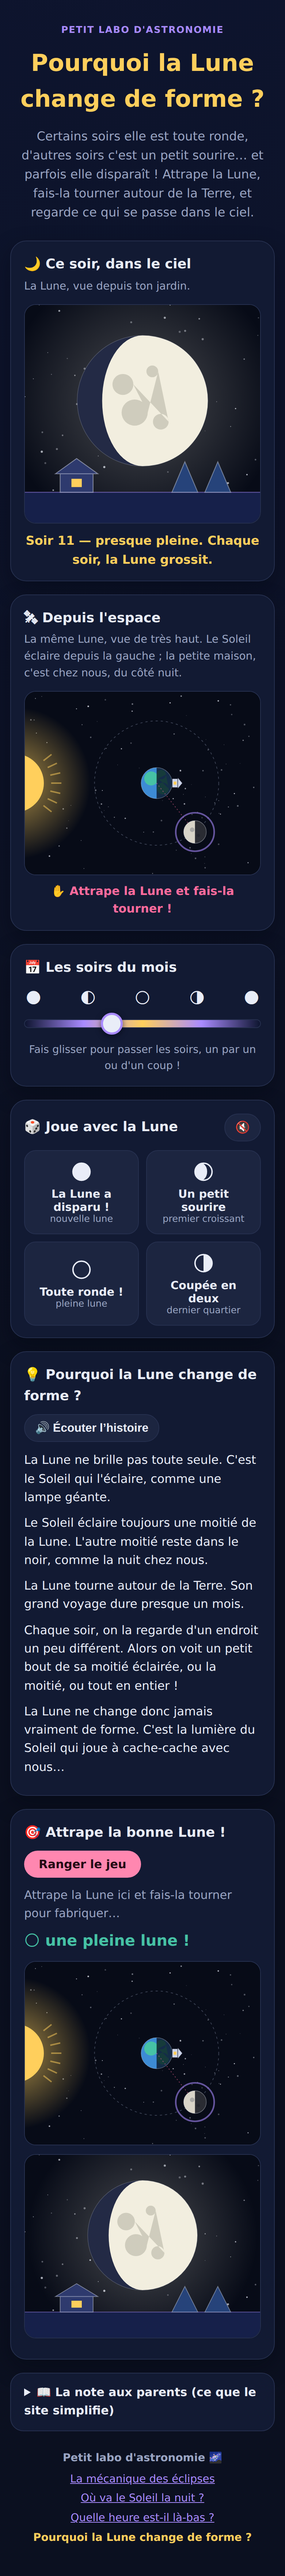
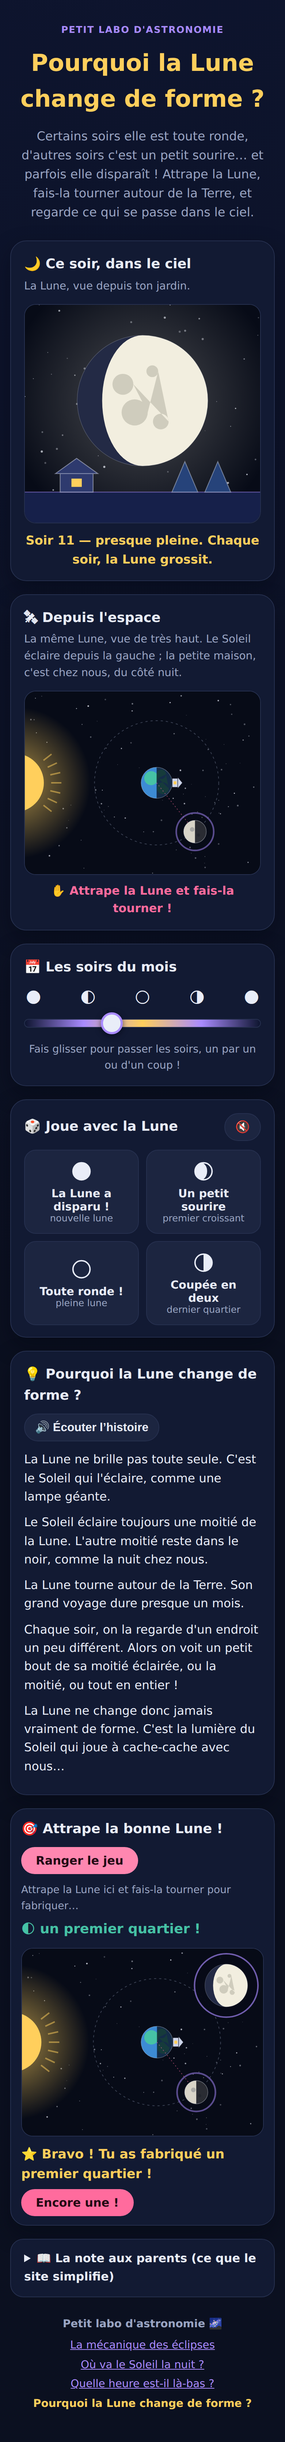
feat: médaillon flottant mobile et jeu à une seule vue
- sur mobile, un médaillon flottant (bas droit) montre la Lune du soir dès
  que le hublot sort de l'écran ; un tap remonte à la vue du jardin
- le jeu mobile tient sur un écran : une seule vue (l'espace) avec la Lune
  du soir incrustée en médaillon, textes compactés
- le médaillon flottant s'efface quand la vue du jeu est à l'écran
- rien ne change sur grand écran (media queries à 880 px)

Claude-Session: https://claude.ai/code/session_01LW4HCeJJHapQbn1kSHxLQ4

Changed region(s): [[0.0615, 0.0, 0.9231, 0.9961], [0.8923, 0.0311, 0.9231, 0.0623], [0.8615, 0.0, 0.8923, 0.0311]]

diff --git a/js/main.js b/js/main.js
@@ -5,11 +5,11 @@
  * que brancher.
  */
 import {
-  CYCLE_JOURS, jourNormalise, phraseDuSoir,
+  CYCLE_JOURS, jourNormalise, phraseDuSoir, formeLune,
   SCENARIOS, DEFIS, defiReussi
 } from './model.js';
 import { creerVueOrbite } from './vue-orbite.js';
-import { creerVueHublot } from './vue-hublot.js';
+import { creerVueHublot, dessinerDisqueLune } from './vue-hublot.js';
 
 /* ------------------------------------------------------------------ */
 /* L'état                                                              */
@@ -31,6 +31,14 @@ if (window.matchMedia) {
   if (mq.addEventListener) mq.addEventListener('change', function (e) { mouvementReduit = !!e.matches; });
 }
 
+/* Petit écran ? (même seuil que la grille CSS : 880 px) */
+var estMobile = false;
+if (window.matchMedia) {
+  var mqMobile = window.matchMedia('(max-width: 879px)');
+  estMobile = !!mqMobile.matches;
+  if (mqMobile.addEventListener) mqMobile.addEventListener('change', function (e) { estMobile = !!e.matches; });
+}
+
 /* ------------------------------------------------------------------ */
 /* Les éléments                                                        */
 /* ------------------------------------------------------------------ */
@@ -47,6 +55,8 @@ var menuVoix = document.getElementById('menu-voix');
 var conseilVoix = document.getElementById('conseil-voix');
 var texteExplication = document.getElementById('texte-explication');
 var boutonJouer = document.getElementById('bouton-jouer');
+var medaillon = document.getElementById('medaillon-lune');
+var canvasMedaillon = document.getElementById('canvas-medaillon');
 var zoneJeu = document.getElementById('zone-jeu');
 var defiJeu = document.getElementById('defi-jeu');
 var bravoJeu = document.getElementById('bravo-jeu');
@@ -135,15 +145,57 @@ function boucle(maintenant) {
     vueHublot.rendre(etat.jour);
     if (!zoneJeu.hidden) {
       ajusterCanvas(canvasOrbiteJeu);
-      ajusterCanvas(canvasHublotJeu);
-      vueOrbiteJeu.rendre(etat.jour, halo);
-      vueHublotJeu.rendre(etat.jour);
+      /* Sur mobile, le jeu n'a qu'une vue : la Lune du soir s'y incruste
+       * en médaillon (le mini hublot est masqué par la feuille de style). */
+      vueOrbiteJeu.rendre(etat.jour, halo, estMobile);
+      if (canvasHublotJeu.offsetWidth > 0) {
+        ajusterCanvas(canvasHublotJeu);
+        vueHublotJeu.rendre(etat.jour);
+      }
     }
+    gererMedaillon();
     surveillerDefi();
   } finally {
     window.requestAnimationFrame(boucle);
   }
 }
+
+/* ------------------------------------------------------------------ */
+/* Le médaillon flottant (mobile) : la Lune du soir, toujours visible   */
+/* ------------------------------------------------------------------ */
+
+function canvasHorsEcran(canvas) {
+  var rect = canvas.getBoundingClientRect();
+  var hauteur = window.innerHeight || document.documentElement.clientHeight;
+  return rect.bottom < 80 || rect.top > hauteur - 80;
+}
+
+function gererMedaillon() {
+  var visible = false;
+  if (estMobile && canvasHorsEcran(canvasHublot)) {
+    visible = true;
+    /* Si la vue du jeu (avec sa Lune incrustée) est à l'écran, elle suffit. */
+    if (!zoneJeu.hidden && !canvasHorsEcran(canvasOrbiteJeu)) visible = false;
+  }
+  medaillon.hidden = !visible;
+  if (!visible) return;
+  ajusterCanvas(canvasMedaillon);
+  var ctx = canvasMedaillon.getContext('2d');
+  var w = canvasMedaillon.width;
+  var h = canvasMedaillon.height;
+  ctx.fillStyle = '#070b17';
+  ctx.fillRect(0, 0, w, h);
+  dessinerDisqueLune(ctx, w / 2, h / 2, Math.min(w, h) * 0.38, formeLune(etat.jour));
+}
+
+/* Un tap sur le médaillon remonte à la vue du jardin. */
+medaillon.addEventListener('click', function () {
+  try {
+    canvasHublot.scrollIntoView({ behavior: mouvementReduit ? 'auto' : 'smooth', block: 'center' });
+  } catch (e) {
+    canvasHublot.scrollIntoView(true);
+  }
+});
 
 /* ------------------------------------------------------------------ */
 /* Le geste-signature : attraper la Lune                                */

diff --git a/js/vue-orbite.js b/js/vue-orbite.js
@@ -3,7 +3,8 @@
  * gauche, la Terre au centre, la Lune sur son orbite. C'est ici que vit le
  * geste-signature : attraper la Lune et la faire tourner.
  */
-import { TAU, angleOrbite, CYCLE_JOURS, positionLune } from './model.js';
+import { TAU, angleOrbite, CYCLE_JOURS, positionLune, formeLune } from './model.js';
+import { dessinerDisqueLune } from './vue-hublot.js';
 
 var CIEL = '#070b17';
 var COULEUR_ORBITE = 'rgba(154, 165, 195, 0.35)';
@@ -163,8 +164,10 @@ export function creerVueOrbite(canvas) {
   }
 
   return {
-    /* Rendu complet. `halo` dans [0, 1] fait respirer l'anneau « attrape-moi ». */
-    rendre: function (jour, halo) {
+    /* Rendu complet. `halo` dans [0, 1] fait respirer l'anneau « attrape-moi ».
+     * `avecMedaillon` incruste la Lune du soir (vue du jardin) dans un coin —
+     * utilisé par le jeu sur mobile, où le mini hublot est masqué. */
+    rendre: function (jour, halo, avecMedaillon) {
       var g = geometrie();
       ctx.fillStyle = CIEL;
       ctx.fillRect(0, 0, g.w, g.h);
@@ -199,6 +202,21 @@ export function creerVueOrbite(canvas) {
       ctx.stroke();
       ctx.setLineDash([]);
       dessinerLune(ctx, g, jour, halo);
+      /* Le médaillon « ce soir, du jardin », incrusté en haut à droite. */
+      if (avecMedaillon) {
+        var dpr = window.devicePixelRatio || 1;
+        var rM = Math.min(g.w, g.h) * 0.15;
+        var mX = g.w - rM - 12 * dpr;
+        var mY = rM + 12 * dpr;
+        ctx.beginPath();
+        ctx.arc(mX, mY, rM + 5 * dpr, 0, TAU);
+        ctx.fillStyle = 'rgba(7, 11, 23, 0.94)';
+        ctx.fill();
+        ctx.strokeStyle = 'rgba(169, 139, 255, 0.65)';
+        ctx.lineWidth = Math.max(1.5, 2 * dpr);
+        ctx.stroke();
+        dessinerDisqueLune(ctx, mX, mY, rM * 0.76, formeLune(jour));
+      }
       /* Les petites étiquettes (pas en mode compact). */
       if (!g.compact) {
         var taille = Math.round(Math.min(g.w, g.h) * 0.035);

diff --git a/css/style.css b/css/style.css
@@ -339,6 +339,46 @@ input[type="range"]:focus-visible { outline: 3px solid var(--rose); outline-offs
   margin: 8px 0;
 }
 
+/* ---------- Le médaillon flottant (mobile) ---------- */
+
+.medaillon-lune {
+  position: fixed;
+  right: 14px;
+  bottom: 14px;
+  width: 72px;
+  height: 72px;
+  padding: 0;
+  border-radius: 50%;
+  border: 2px solid var(--violet);
+  background: #070b17;
+  box-shadow: 0 6px 18px rgba(2, 5, 15, 0.65);
+  cursor: pointer;
+  z-index: 10;
+}
+
+.medaillon-lune canvas {
+  display: block;
+  width: 100%;
+  height: 100%;
+  border-radius: 50%;
+}
+
+/* Jamais sur ordinateur : le hublot y est toujours à portée d'œil. */
+@media (min-width: 880px) {
+  .medaillon-lune { display: none !important; }
+}
+
+/* ---------- Le jeu sur mobile : une seule vue, tout tient à l'écran ---------- */
+
+@media (max-width: 879px) {
+  .vues-jeu > .cadre-canvas:last-child { display: none; }
+  .carte-jeu { padding: 14px 14px 12px; }
+  .consigne-jeu { font-size: 0.88rem; }
+  .defi { font-size: 1.15rem; margin: 6px 0; }
+  .bravo { font-size: 1.1rem; margin: 6px 0; }
+  .vues-jeu { margin: 10px 0; }
+}
+
 /* ---------- Note aux parents ---------- */
 
 .note-parents {

diff --git a/index.html b/index.html
@@ -140,6 +140,13 @@
 
   </main>
 
+  <!-- Le médaillon flottant (mobile) : la Lune de ce soir, toujours visible
+       quand le hublot est sorti de l'écran. Un tap remonte au jardin. -->
+  <button id="medaillon-lune" class="medaillon-lune" type="button" hidden
+    aria-label="La Lune de ce soir — remonter à la vue du jardin">
+    <canvas id="canvas-medaillon" aria-hidden="true"></canvas>
+  </button>
+
   <footer class="pied-serie">
     <p>Petit labo d'astronomie 🌌</p>
     <ul>

diff --git a/README.md b/README.md
@@ -31,9 +31,12 @@ L'idée centrale, celle que l'enfant doit retenir :
 - **La boîte d'explication** à lire ou à **écouter** (synthèse vocale hors
   ligne, bouton « 🔊 Écouter l'histoire », menu de voix 🗣).
 - **Le jeu « 🎯 Attrape la bonne Lune ! »** : le site demande une phase,
-  l'enfant la fabrique en manœuvrant la Lune — directement dans les deux
-  mini-vues reprises sous le jeu (synchronisées avec celles du haut), sans
-  remonter en haut de la page.
+  l'enfant la fabrique en manœuvrant la Lune — directement dans les mini-vues
+  reprises sous le jeu (synchronisées avec celles du haut), sans remonter en
+  haut de la page. Sur mobile, le jeu tient sur un écran : une seule vue, avec
+  la Lune du soir incrustée en médaillon.
+- **Sur mobile**, un médaillon flottant montre la Lune du soir dès que le
+  hublot sort de l'écran (scénarios, curseur, jeu…) — un tap y ramène.
 - **La note aux parents**, repliable, qui documente honnêtement chaque
   simplification.
 

diff --git a/CLAUDE.md b/CLAUDE.md
@@ -66,6 +66,11 @@ Vérités verrouillées par `test/model.test.mjs` (à compléter, jamais supprim
   la micro-histoire du scénario et désarme son `aria-pressed`.
 - **Le jeu ne se gagne qu'en manœuvrant soi-même** (pas pendant une animation
   de scénario).
+- **Sur mobile (< 880 px) seulement** : un médaillon flottant (bas droit)
+  montre la Lune du soir dès que le hublot sort de l'écran — un tap y ramène ;
+  le jeu n'affiche qu'une seule vue (l'espace), la Lune du soir s'y incruste
+  en médaillon, et le médaillon flottant s'efface quand cette vue est à
+  l'écran. Rien de tout cela n'existe sur grand écran.
 
 ## Le conteur (synthèse vocale)
 
